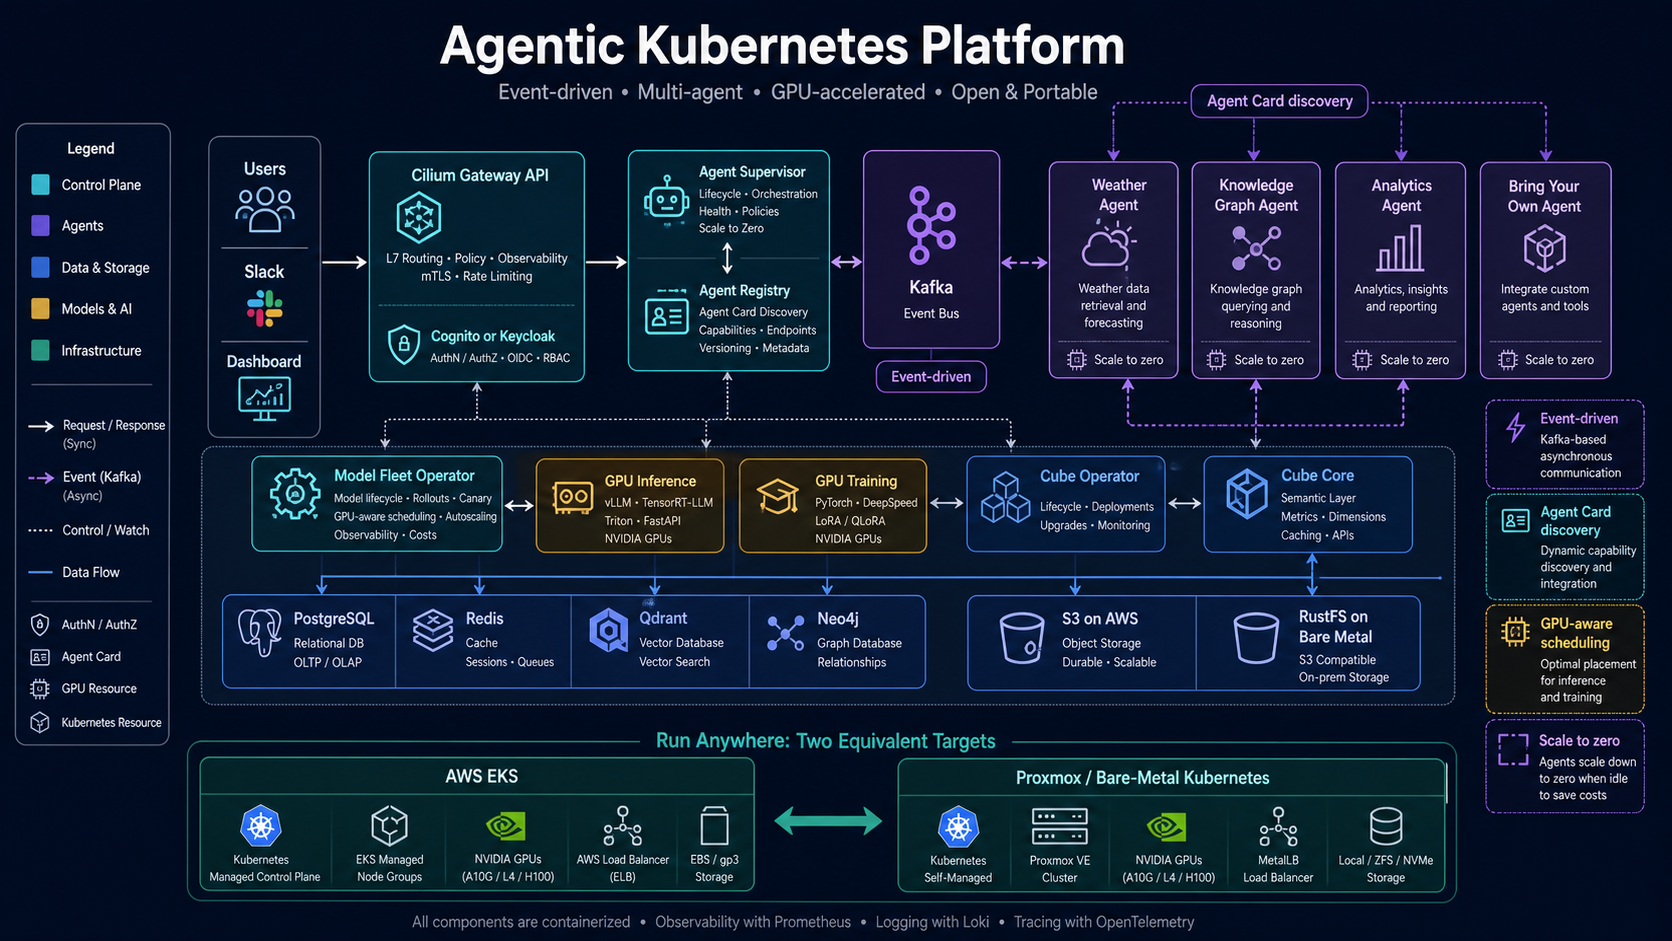
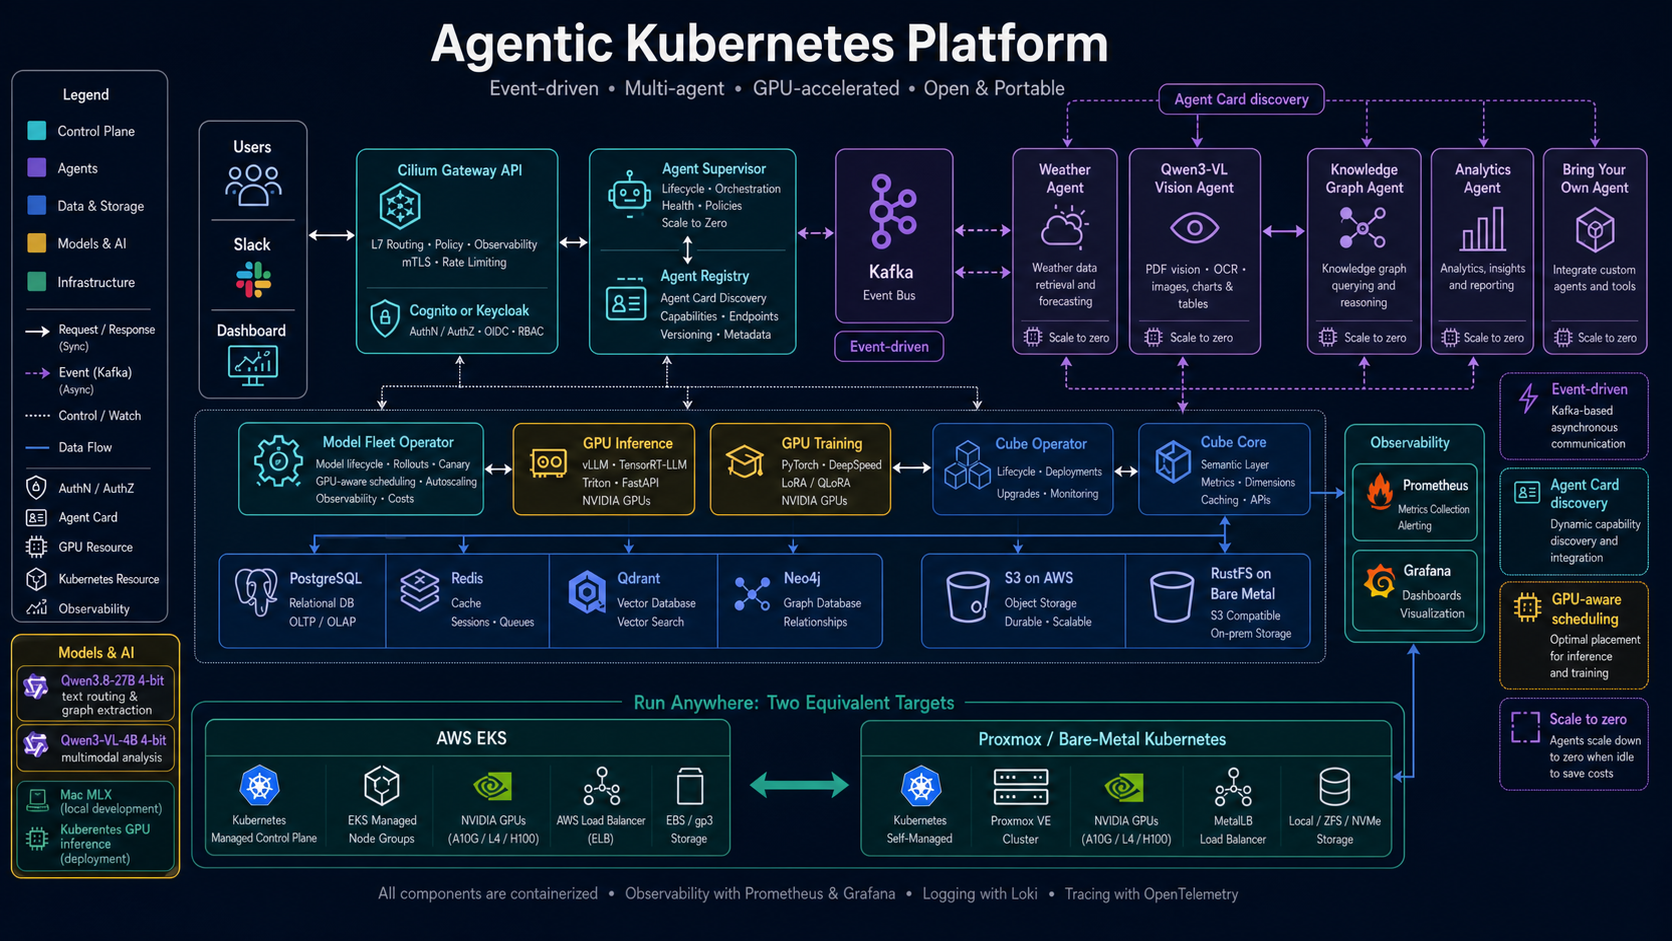
cube operator

Changed region(s): [[0.0, 0.0, 0.9952, 0.9862]]

diff --git a/content/cube-microk8s-operator.md b/content/cube-microk8s-operator.md
@@ -1,9 +1,10 @@
 Title: A Kubernetes Operator for Self-Hosted Cube Core
 Date: 2026-09-02
+Modified: 2026-10-17
 Category: Open Source Projects
-Tags: kubernetes, operator, cube, analytics, golang, kopf, kind, microk8s
+Tags: kubernetes, operator, cube, analytics, agents, telemetry, golang, kopf, kind, microk8s
 Slug: cube-microk8s-operator
-Summary: How a declarative CubeCluster API, interchangeable Go and Python controllers, storage-aware Cube Store topology, and a Kind telemetry demo turn self-hosted Cube Core into an operable Kubernetes workload.
+Summary: Deploy self-hosted Cube Core on Kubernetes, then query Kubernetes health and agent-execution telemetry: runs, skills, tools, handoffs, artifact references, validation, and model usage.
 
 The [Cube Core MicroK8s Operator](https://github.com/sqe/cube-microk8s-operator)
 encodes self-hosted Cube Core as a declarative Kubernetes API. A `CubeCluster`
@@ -11,6 +12,17 @@ describes API replicas, refresh workers, Cube Store topology, model and Secret
 references, storage, and service exposure. The controller continuously turns
 that intent into standard Kubernetes resources and reports readiness back to
 the custom resource.
+
+Despite its name, the operator is not tied to MicroK8s. It uses standard
+Kubernetes APIs on supported managed or self-hosted clusters; Proxmox and
+MicroK8s are optional infrastructure, not prerequisites. The current minimum
+Kubernetes version is 1.34. I use it in local cluster setups and on Kind.
+
+**Release scope:** the public v0.1.0 alpha OLM catalog is installation-tested.
+The new agent-execution pipeline described below is prepared for the next
+source/release update; it is not in the published v0.1.0 image. The OperatorHub
+submission is under community review, not an available listing. The custom
+OLM catalog works independently of that review.
 
 ![Cube Core MicroK8s Operator architecture]({static}/images/cube-microk8s-operator.png)
 
@@ -47,20 +59,142 @@ Deployments, Services, StatefulSets, and status fields; running both would
 create reconciliation races. Switching therefore means deleting one controller
 Deployment, waiting for termination, and only then applying the other.
 
-```bash
-# Go/controller-runtime, the default
-kubectl apply -k config/default
-kubectl -n cube-system rollout status deployment/cube-operator
-
-# Alternative Kopf controller: stop Go first
-kubectl -n cube-system delete deployment cube-operator --wait=true
-kubectl apply -k config/kopf
-kubectl -n cube-system rollout status deployment/cube-operator-kopf
-```
+The [direct deployment guide](https://github.com/sqe/cube-microk8s-operator#deploy-or-switch-controllers)
+covers Go/Kopf installation. Local image tags must be replaced with registry
+images outside Kind. The OLM route below uses the already-published Go image.
 
 This dual implementation is useful beyond language preference: it documents
 which behavior belongs to the API contract and which belongs to a particular
 framework.
+
+## Install on Kubernetes
+
+You need Kubernetes 1.34+, `kubectl`, classic OLM, a reachable PostgreSQL data
+source, and a default StorageClass or an existing suitable PVC. Your networking
+plugin must implement NetworkPolicy to enforce the Cube Store restrictions.
+
+### Install the public operator catalog
+
+If classic OLM is absent, install
+[Operator SDK](https://sdk.operatorframework.io/docs/installation/) and run
+`operator-sdk olm install --version 0.46.0 --timeout 5m` once. This uses classic
+OLM's `CatalogSource` and `Subscription`, not OLM v1. Do not run it alongside
+a direct Go or Kopf installation.
+
+```bash
+git clone https://github.com/sqe/cube-microk8s-operator.git
+cd cube-microk8s-operator
+kubectl apply -f config/olm/install.yaml
+kubectl -n cube-system wait --for=create \
+  csv/cube-microk8s-operator.v0.1.0 --timeout=5m
+kubectl -n cube-system wait --for=jsonpath='{.status.phase}'=Succeeded \
+  csv/cube-microk8s-operator.v0.1.0 --timeout=5m
+kubectl -n cube-system rollout status deployment/cube-operator --timeout=2m
+```
+
+This installs the alpha Go controller cluster-wide in `cube-system`, not a Cube
+instance or a database. The manifest assumes the global catalog namespace is
+`olm`; adapt the CatalogSource namespace and Subscription's `sourceNamespace`
+if yours differs. Review its automatic InstallPlan approval policy before use;
+do not create a second OperatorGroup in an existing operator namespace.
+[OperatorHub submission #9651](https://github.com/k8s-operatorhub/community-operators/pull/9651)
+is a separate community review; OpenShift console listing is also separate.
+
+### Configure a model, credentials, and storage
+
+This minimal model checks connectivity without depending on an application
+table. Replace it with semantic models for your own data afterward.
+
+```bash
+kubectl create namespace cube --dry-run=client -o yaml | kubectl apply -f -
+kubectl -n cube apply -f - <<'YAML'
+apiVersion: v1
+kind: ConfigMap
+metadata: {name: cube-model}
+data:
+  Connectivity.yml: |
+    cubes:
+      - name: Connectivity
+        sql: SELECT 1 AS id
+        measures:
+          - name: count
+            type: count
+        dimensions:
+          - name: id
+            sql: id
+            type: number
+            primary_key: true
+YAML
+
+# Bash: enter credentials interactively; never commit them.
+read -rp 'PostgreSQL hostname: ' CUBE_DB_HOST
+read -rp 'PostgreSQL database: ' CUBE_DB_NAME
+read -rp 'PostgreSQL user: ' CUBE_DB_USER
+read -rsp 'PostgreSQL password: ' CUBE_DB_PASS; echo
+read -rsp 'Cube API signing secret: ' CUBE_API_SECRET; echo
+kubectl -n cube create secret generic cube-configuration \
+  --from-literal=CUBEJS_DB_TYPE=postgres \
+  --from-literal=CUBEJS_DB_HOST="$CUBE_DB_HOST" \
+  --from-literal=CUBEJS_DB_PORT=5432 \
+  --from-literal=CUBEJS_DB_NAME="$CUBE_DB_NAME" \
+  --from-literal=CUBEJS_DB_USER="$CUBE_DB_USER" \
+  --from-literal=CUBEJS_DB_PASS="$CUBE_DB_PASS" \
+  --from-literal=CUBEJS_API_SECRET="$CUBE_API_SECRET" \
+  --dry-run=client -o yaml | kubectl apply -f -
+unset CUBE_DB_HOST CUBE_DB_NAME CUBE_DB_USER CUBE_DB_PASS CUBE_API_SECRET
+
+kubectl -n cube apply -f - <<'YAML'
+apiVersion: v1
+kind: PersistentVolumeClaim
+metadata: {name: cube-remote}
+spec:
+  accessModes: [ReadWriteOnce]
+  resources:
+    requests: {storage: 10Gi}
+---
+apiVersion: platform.cube.dev/v1alpha1
+kind: CubeCluster
+metadata: {name: analytics}
+spec:
+  modelConfigMap: cube-model
+  configurationSecret: cube-configuration
+  api: {replicas: 2}
+  refreshWorker: {replicas: 1}
+  cubeStore:
+    mode: single
+    remoteStorage:
+      type: persistentVolume
+      persistentVolume: {existingClaim: cube-remote}
+    scratch: {size: 2Gi}
+  service: {type: ClusterIP}
+YAML
+```
+
+Use an external secret manager and the database TLS settings appropriate for
+your provider in production. The operator does not provision PostgreSQL.
+The default Cube Store image is for amd64. On arm64, select the tested arm64
+image before waiting for readiness:
+
+```bash
+kubectl -n cube patch cubecluster analytics --type=merge -p \
+  '{"spec":{"cubeStore":{"image":"cubejs/cubestore:arm64v8@sha256:d9254a2166513e99f888da6f85362362357805116cd4d70f2b22e318e6ca5007"}}}'
+```
+
+Then, on either architecture:
+
+```bash
+kubectl -n cube wait --for=condition=Ready cubecluster/analytics --timeout=15m
+kubectl -n cube get cubecluster analytics
+kubectl -n cube port-forward --address 127.0.0.1 service/analytics-api 4000:4000
+# In another terminal:
+curl --fail --silent --show-error --max-time 10 http://127.0.0.1:4000/readyz
+```
+
+Health is unauthenticated. Metadata and queries require a short-lived Cube JWT,
+sent directly in `Authorization` without `Bearer`; see the
+[REST examples](https://github.com/sqe/cube-microk8s-operator#use-the-cube-core-rest-api).
+Public access needs your own TLS ingress and authorization policy. This compact
+single-store example is not an HA storage design.
 
 ## Storage and query topology
 
@@ -97,24 +231,21 @@ spec:
         secretRef: cubestore-s3
 ```
 
-Images in the examples are digest-pinned. Workload identity is preferable for
+Default Cube/Cube Store images are digest-pinned. Workload identity is preferable for
 S3; a referenced Secret is available where static credentials are unavoidable.
 Containers drop Linux capabilities and disallow privilege escalation, while
 Cube Store accepts only the component traffic selected by NetworkPolicy.
 
 ## A telemetry demo that tests more than installation
 
-The included Kind environment creates PostgreSQL, a collector with scoped
-Kubernetes read access, a semantic telemetry model, and Cube Core. The collector
-writes point-in-time pod observations. The E2E script verifies liveness,
-readiness, metadata compilation, and a real semantic query rather than stopping
-at “the pod is Running.”
+The Kind environment creates PostgreSQL, a read-only Node/Pod collector, Cube
+models, and Cube Core. The new update adds a separate authenticated ingestion
+service and the `AgentExecutions` model. The Go image runs the manager,
+collector, or ingestion as independent processes; event collection is not part
+of reconciliation.
 
 ```bash
-git clone https://github.com/sqe/cube-microk8s-operator.git
-cd cube-microk8s-operator
-
-make verify
+# From the source checkout; requires Docker, Kind, kubectl, curl, jq and Python.
 make kind-up       # Go controller
 make kind-e2e
 make kind-down
@@ -125,37 +256,158 @@ make kind-e2e
 make kind-down
 ```
 
-The Kind scripts detect amd64 versus Apple Silicon arm64 nodes and select the
-matching digest-pinned Cube Store image. The demo API is mapped only to the
-local machine. Production DNS, certificates, firewall rules, backups, and
-public ingress remain explicit operator responsibilities.
+The E2E checks exercise health, metadata, Kubernetes observations, and every
+execution-record kind through real Cube queries. A synthetic two-agent task
+has nine spans, two runs (one failed), one failed validation, 13,000 ms average
+run duration, 160 input tokens, 48 output tokens, and $0.0168 reported cost.
+These are test fixtures, not a claim that real agents performed those tasks.
+Checks cover bad credentials, invalid records, out-of-order delivery, duplicate
+retries, conflicting replays, and persistence after ingestion pod replacement.
+CI exercises Go and Kopf, including repeated setup, plus PostgreSQL integration
+tests and the Go race detector.
+
+Kind detects amd64/arm64 and selects the matching Cube Store image. Access the
+demo at `http://127.0.0.1:4000`; ingestion is internal with temporary loopback
+forwarding during E2E. Production DNS, certificates, firewalls, backups, and
+ingress remain explicit environment responsibilities.
+
+## Concrete artifacts: infrastructure versus agent output
+
+For `CubeCluster/analytics` in single-store mode, the **operator creates**
+`analytics-api` (Deployment, Service, and PDB), `analytics-refresh-worker`
+(Deployment), `analytics-cubestore` (Deployment and Service), and a Cube Store
+NetworkPolicy. Clustered mode substitutes router/worker StatefulSets and
+Services. These are inspectable Kubernetes objects with owner references:
+
+```bash
+kubectl -n cube get deployments,statefulsets,services,pdb,networkpolicy
+kubectl -n cube get cubecluster analytics -o yaml
+```
+
+The optional telemetry service creates the `agent_executions` PostgreSQL table;
+the demo provides `AgentExecutions.yml` in the model ConfigMap. Cube generates
+source SQL when clients query the model. The operator itself neither authors
+application SQL nor creates reports, screenshots, or code patches.
+
+**Agents create those output artifacts.** The telemetry service records their
+references and context. A completed artifact record could look like this
+(illustrative IDs/timestamps, not a real published report):
+
+```json
+{
+  "eventId": "task-123-artifact",
+  "traceId": "task-123",
+  "runId": "task-123-analytics",
+  "parentId": "task-123-analytics",
+  "tenantId": "local",
+  "cluster": "kind-cube-demo",
+  "namespace": "cube-demo",
+  "agent": "analytics-worker",
+  "kind": "artifact",
+  "name": "usage-report",
+  "status": "succeeded",
+  "artifactUri": "urn:example:task-123:usage-report",
+  "artifactType": "application/json",
+  "startedAt": "2026-10-17T10:00:00Z",
+  "endedAt": "2026-10-17T10:00:01Z"
+}
+```
+
+This may reference an agent-produced report, SQL file, test result, code patch,
+or screenshot stored elsewhere. Ingestion neither fetches nor stores the file;
+never send private content, credentials, or signed download URLs as metadata.
+
+## What we capture for a complete agent task
+
+Agents instrument their runtime and submit terminal records to
+`POST /v1/executions`, authenticated with a separate ingestion token. Each
+record has an event ID, trace/run/parent links, agent, timestamps, and an outcome.
+
+| Record | Captured evidence |
+|---|---|
+| Run | Agent identity, task name, success/failure/cancellation, latency. |
+| Skill | Skill name/version and its parent run. |
+| Tool | Tool identity, outcome, duration, parent skill or run. |
+| Handoff | Target agent; a delegated run links to the handoff. |
+| Artifact | URI and media type, not the artifact contents. |
+| Validation | Check name and passed/failed/skipped outcome. |
+| Model call | Provider/model, input/output tokens, reported USD cost. |
+
+For example: an analytics worker runs `operating-cube-core`, calls a Cube query
+tool, records a report URI, and hands review to a second agent. The reviewer
+records its own run, model call, and validation result. All share a trace ID,
+with parent IDs showing how work was nested or delegated. This answers
+“which agents ran, what skills/tools did they use, what did they produce, and
+how did verification turn out?” without collecting private reasoning.
+
+Usage belongs only to model-call records, preventing double-counted run totals.
+Immutable IDs make identical delivery retries safe and reject changed replays.
+Retention defaults to seven days. Costs are producer-reported, not calculated
+billing. A Cube query can compare outcomes and usage by agent:
+
+```json
+{
+  "query": {
+    "measures": ["AgentExecutions.runs", "AgentExecutions.failedRuns", "AgentExecutions.inputTokens", "AgentExecutions.outputTokens", "AgentExecutions.costUsd"],
+    "dimensions": ["AgentExecutions.agent"],
+    "limit": 100
+  }
+}
+```
+
+The synthetic E2E task's expected usage rows are:
+
+```json
+[
+  {"agent": "analytics-worker", "runs": 1, "failedRuns": 0, "inputTokens": 137, "outputTokens": 41, "costUsd": 0.0123},
+  {"agent": "reviewer", "runs": 1, "failedRuns": 1, "inputTokens": 23, "outputTokens": 7, "costUsd": 0.0045}
+]
+```
+
+These are readable projections of expected semantic results; Cube's actual
+responses use qualified member names such as `AgentExecutions.runs` and commonly
+encode numeric values as strings. Filter by trace ID to inspect one task, or
+by `kind = skill` and group by name/version to compare skill outcomes.
+
+Inspect `/cubejs-api/v1/meta` before querying. The
+[execution contract](https://github.com/sqe/cube-microk8s-operator/blob/main/docs/agent-executions.md)
+has submission examples and the complete field contract. This is not automatic
+agent discovery, a live workflow engine, or chain-of-thought collection; it
+requires no Kafka or Temporal. The local shared-token endpoint is not a
+multi-tenant security boundary: external use requires trusted identity,
+server-side tenant enforcement, TLS, network restrictions, and rate limits.
 
 ## Agents consume governed analytics, not database credentials
 
-A local agent skill mints a short-lived Cube JWT and calls the Cube Core REST
-contract. It first inspects `/cubejs-api/v1/meta`, then submits bounded semantic
+A local read-only agent skill uses a short-lived Cube JWT supplied by a trusted
+caller and calls the Cube Core REST contract. It first inspects `/cubejs-api/v1/meta`, then submits bounded semantic
 queries to `/cubejs-api/v1/load`. This lets an agent use named measures and
 dimensions without receiving PostgreSQL credentials or permission to execute
-arbitrary SQL.
+arbitrary SQL through the skill. Authentication, allowed models, and tenant
+filters still require explicit server-side policy; the operator does not
+configure OIDC or guarantee tenant isolation by itself.
 
 Cube's hosted Chat API and official Cloud skills are a separate product
 boundary. This project documents them as optional Cube Cloud integrations; it
 does not claim those hosted features are part of open-source Cube Core.
 
-## Publication and operational boundaries
-
-The repository includes an OperatorHub/OLM path: bundle and catalog metadata,
-CSV install modes, validation, scorecard, Kind+OLM testing, image signing, and
-the community-operators pull-request workflow. Documentation states whether a
-release has actually been published rather than treating packaging instructions
-as publication evidence.
+## Operational and licensing boundaries
 
 Before production use, test CRD upgrades, restore procedures, controller
 failover, Cube Store recovery, database limits, and model changes under the
 target workload. “Production-oriented” means these controls are represented;
-it does not replace environment-specific qualification.
+it does not replace environment-specific qualification. The next catalog is
+for fresh installations, not an advertised automatic upgrade from v0.1.0.
+
+This is an independent community project, not an official Cube product or a
+claim of Cube endorsement. It deploys upstream [Cube](https://github.com/cube-js/cube)
+and Cube Store images; credit belongs to the Cube authors and contributors.
+Original operator code is Apache-2.0. Cube Client is MIT licensed; Cube Backend
+is Apache-2.0 licensed. Upstream licenses/notices remain separate and must be
+preserved when redistributing those components.
 
 **Explore the project:**
 [GitHub repository](https://github.com/sqe/cube-microk8s-operator) ·
 [Architecture](https://github.com/sqe/cube-microk8s-operator/blob/main/docs/architecture.md) ·
+[Execution telemetry](https://github.com/sqe/cube-microk8s-operator/blob/main/docs/agent-executions.md) ·
 [Agent boundary](https://github.com/sqe/cube-microk8s-operator/blob/main/docs/agent-integration.md)
